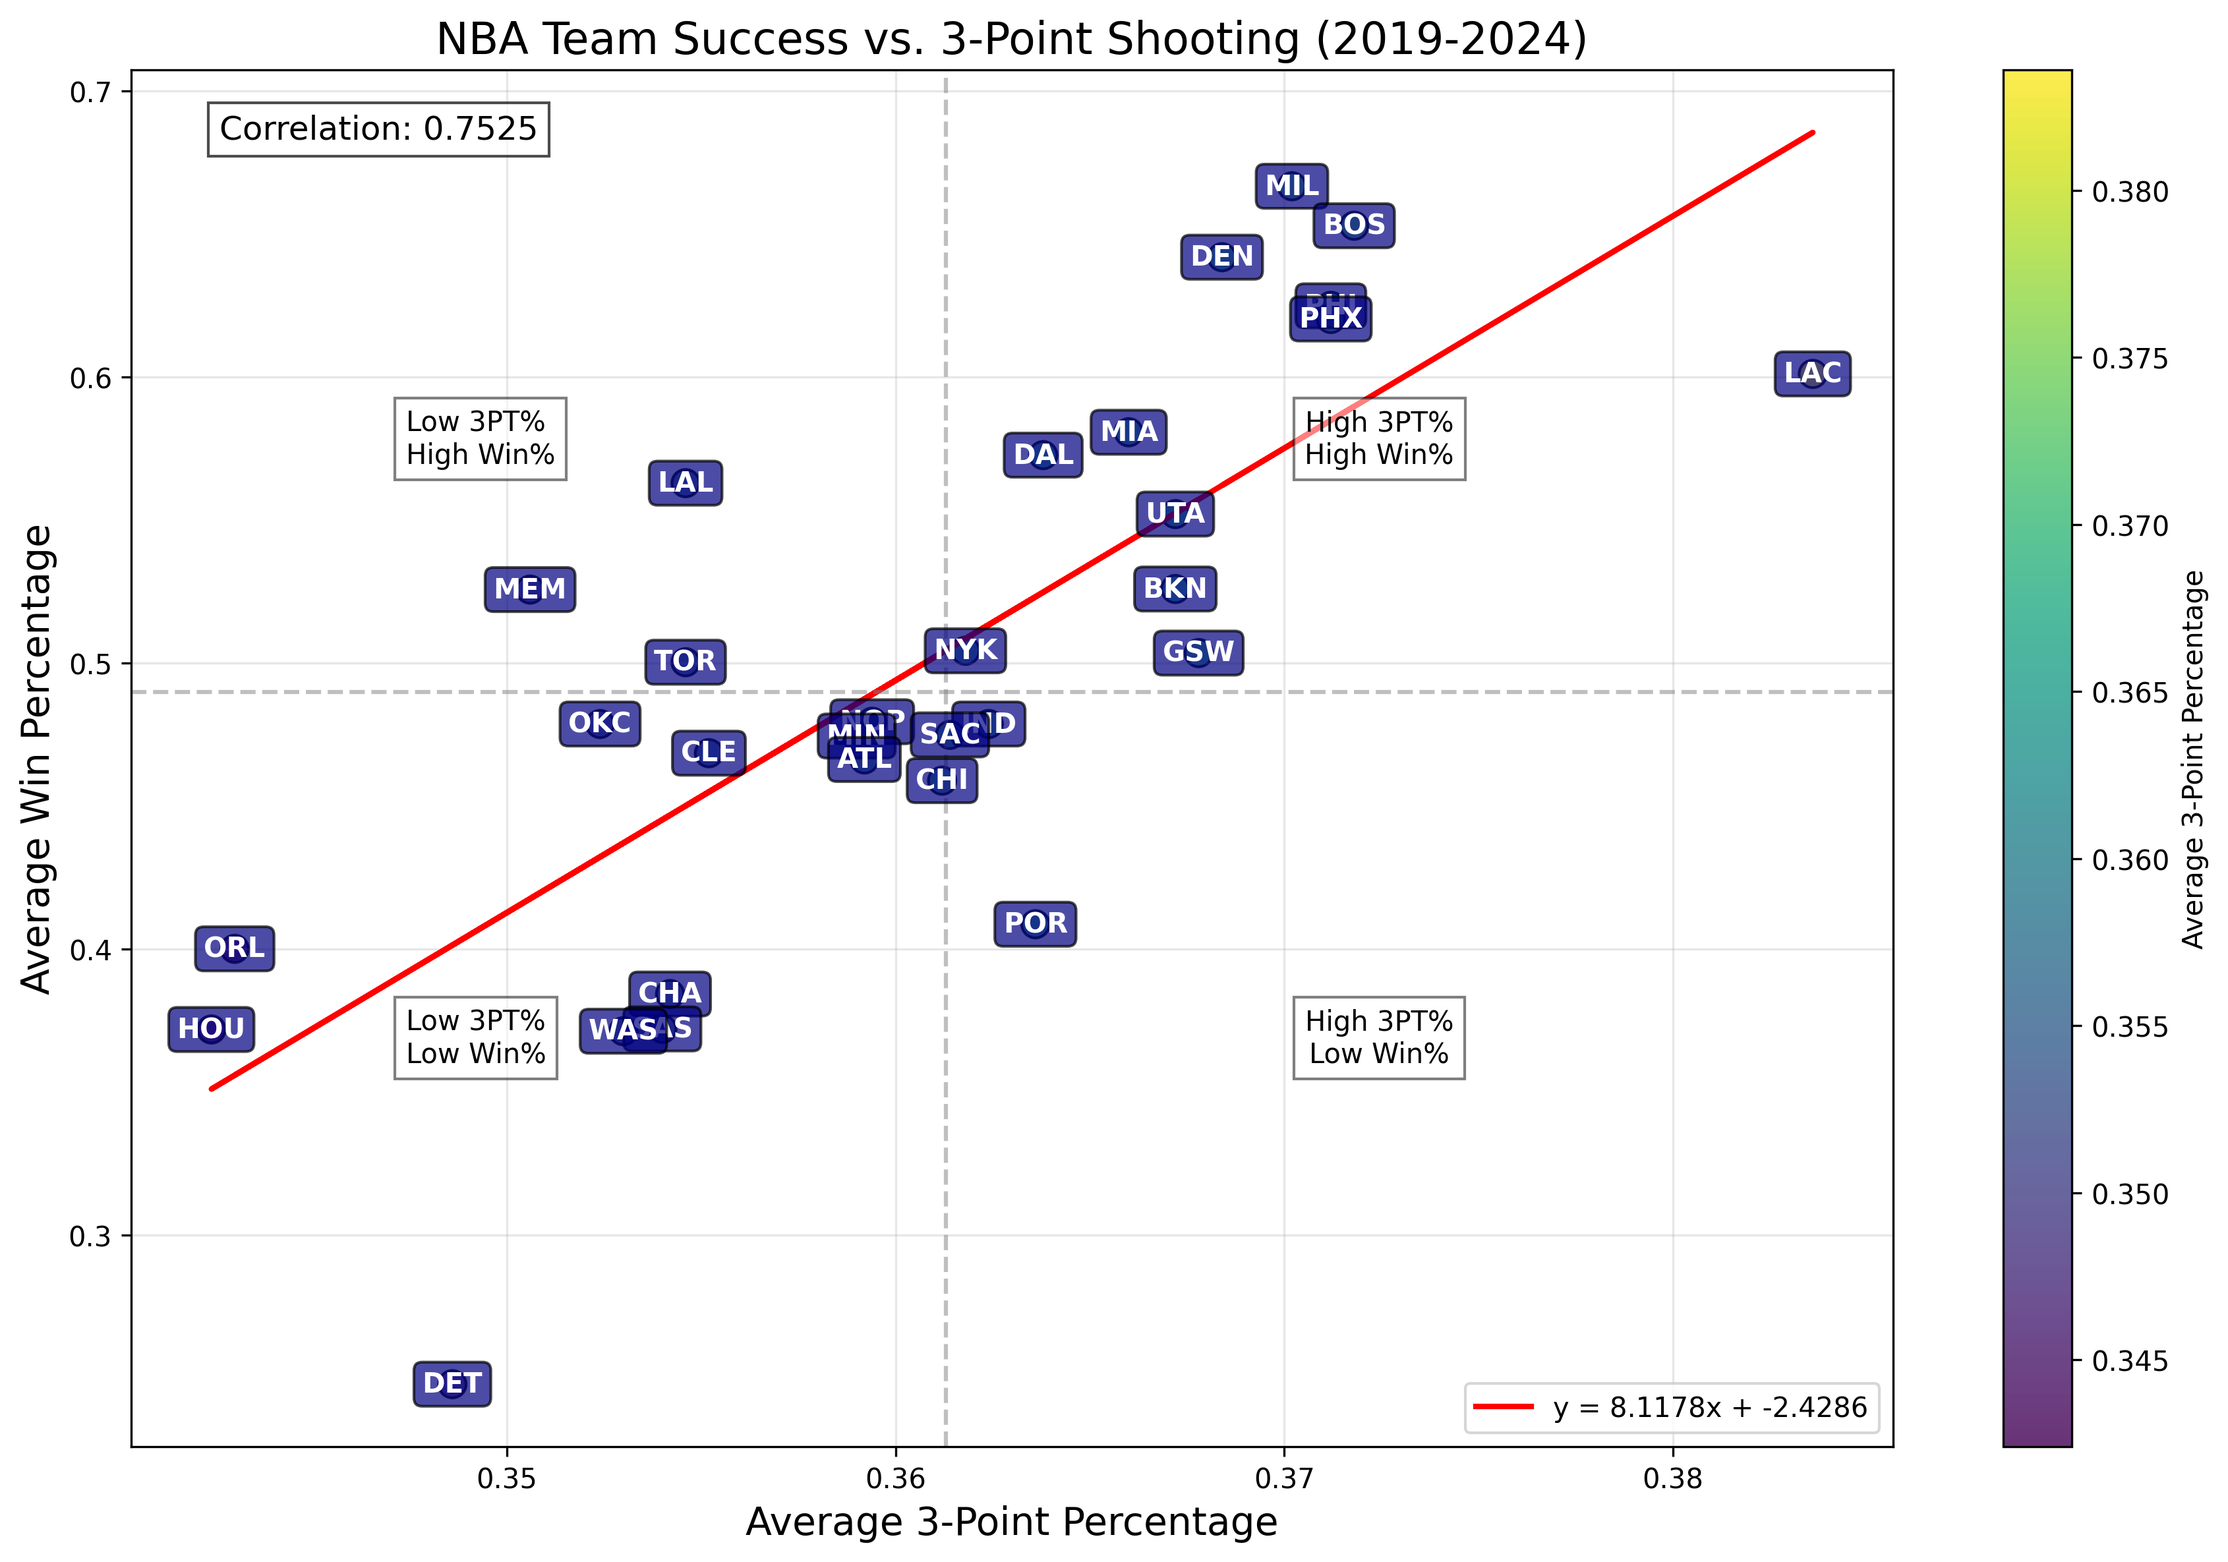
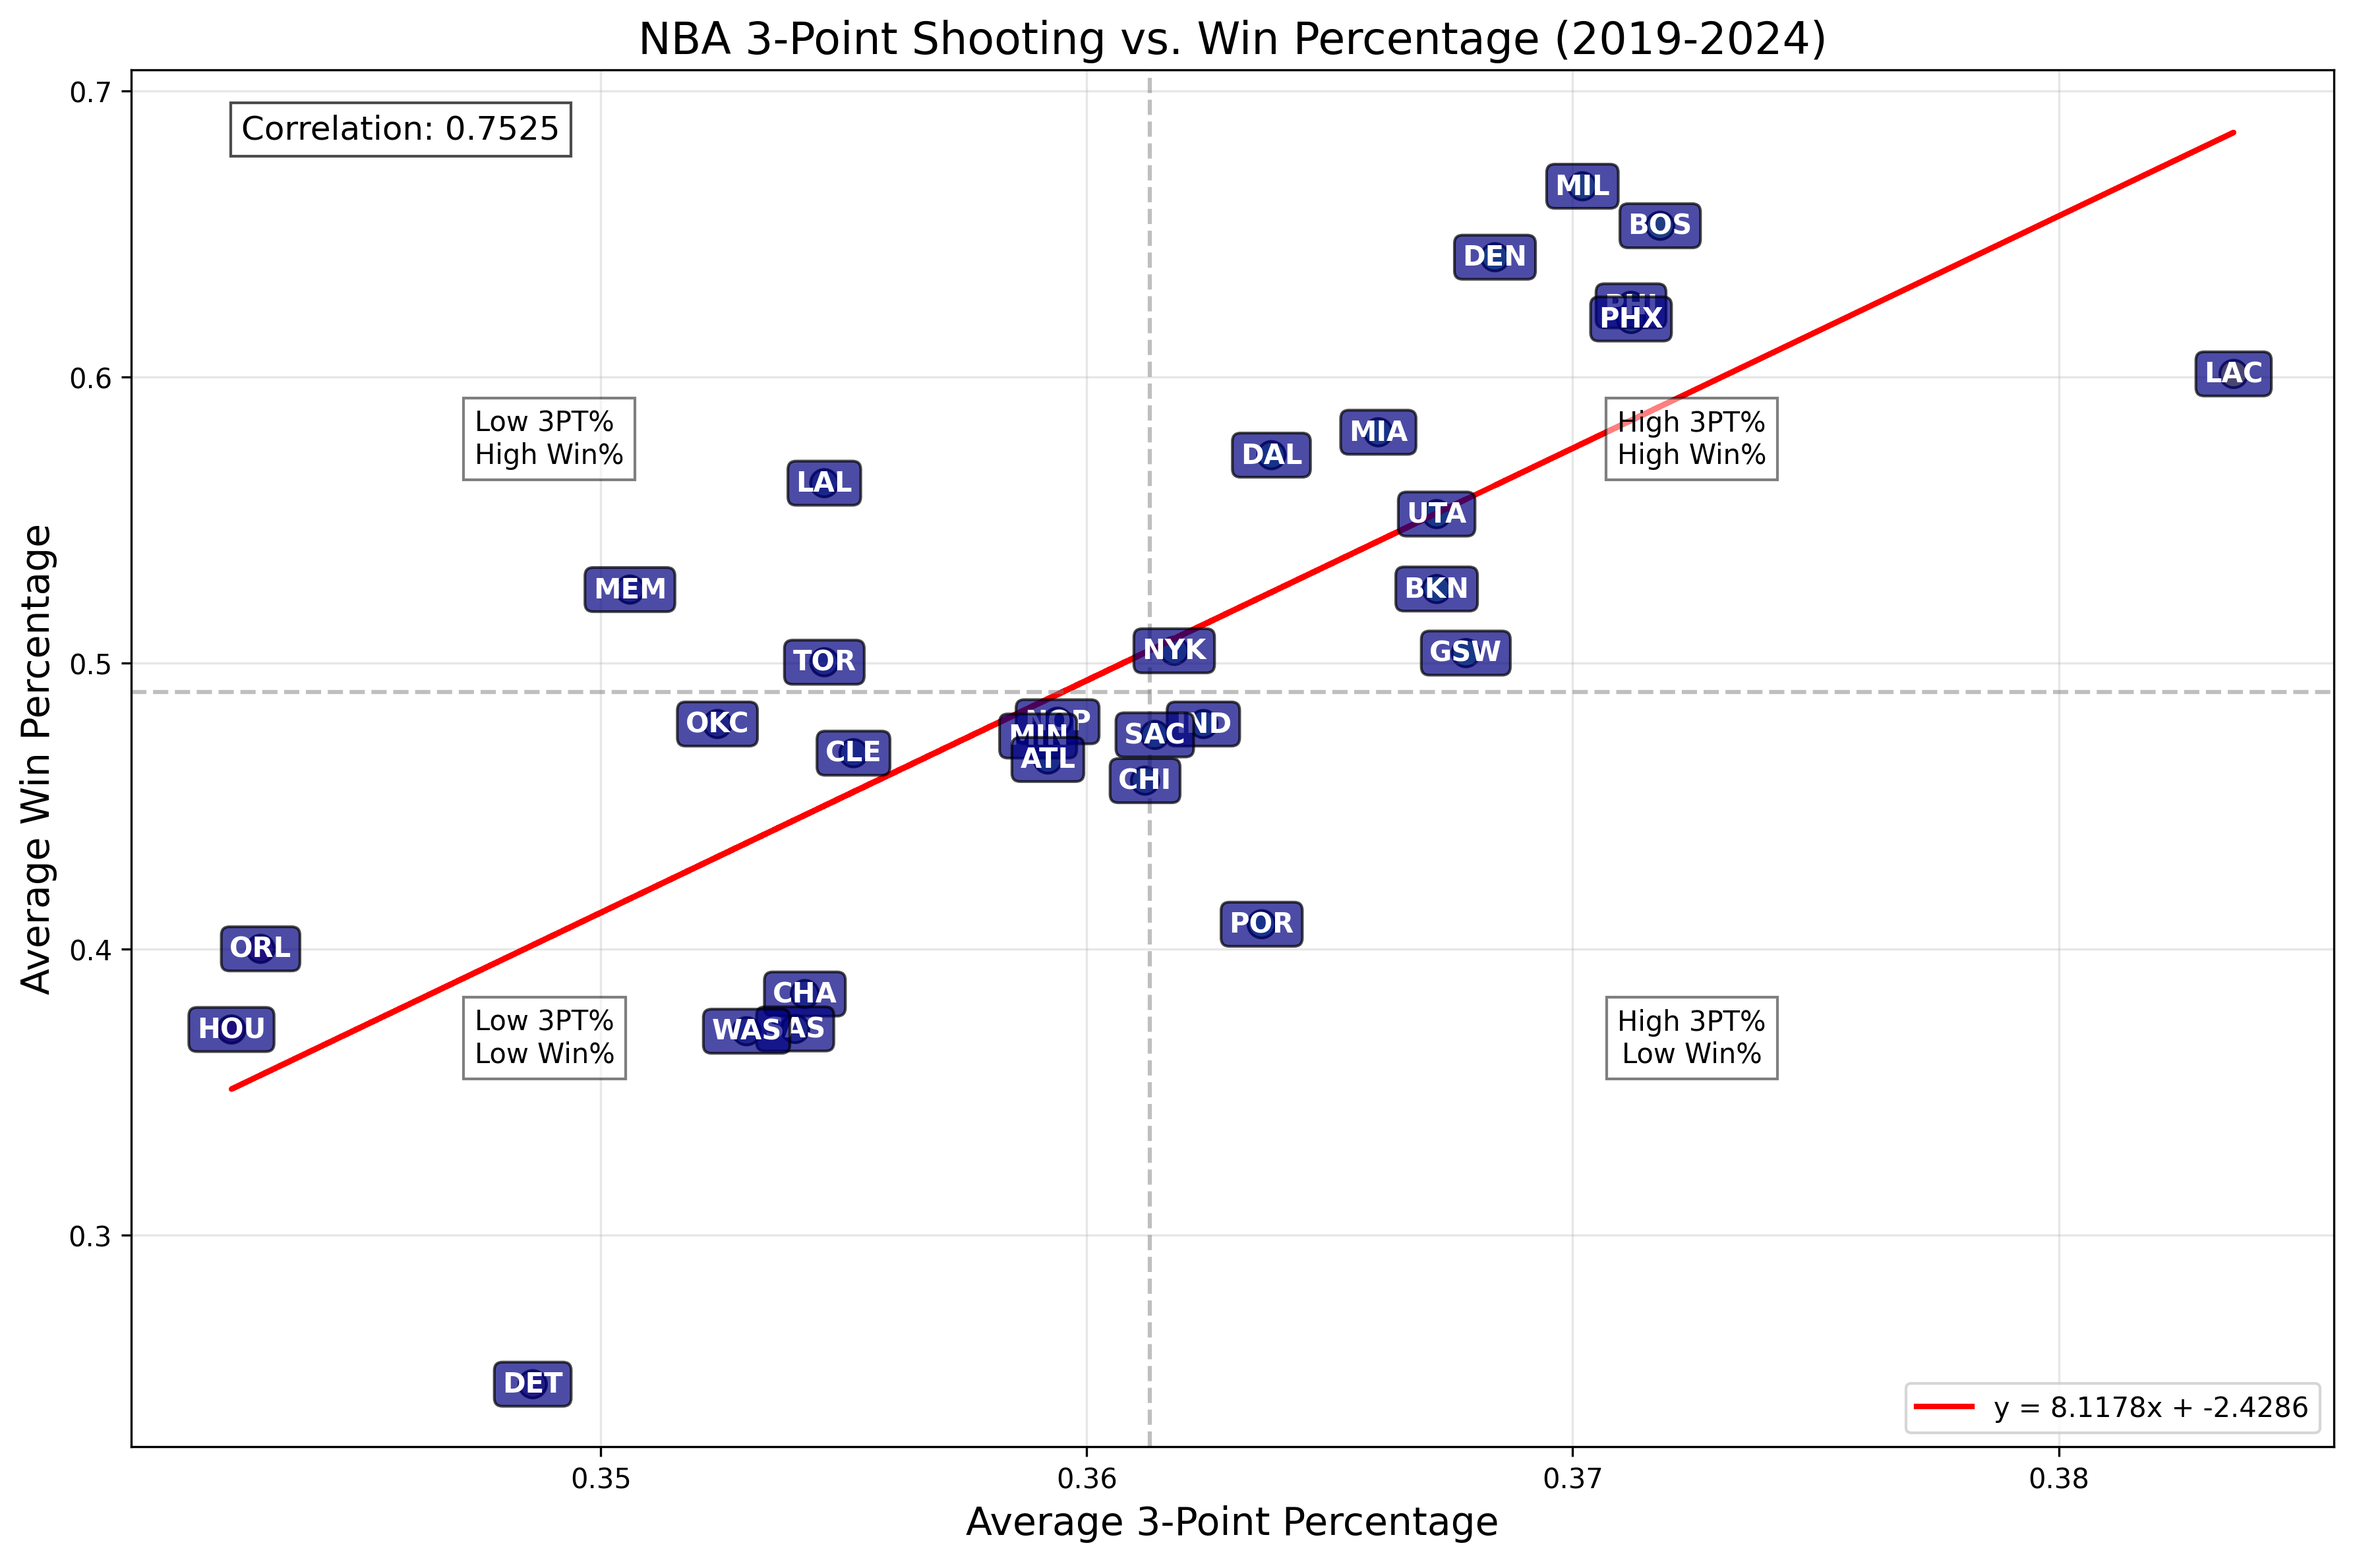
done with everything?

diff --git a/sid/calc.py b/sid/calc.py
@@ -5,14 +5,8 @@ import pandas as pd
 import os
 
 def calculate_and_visualize_3pt_win_correlation(db_name="nba-stats.db"):
-    """
-    Calculate average 3PT% and win% for each team over 5 seasons,
-    visualize their correlation, and write the data to a file.
-    """
-    # Connect to the database
     conn = sqlite3.connect(db_name)
-    
-    # SQL query to join tables and calculate averages
+
     query = """
     SELECT 
         t.team_id,
@@ -32,14 +26,11 @@ def calculate_and_visualize_3pt_win_correlation(db_name="nba-stats.db"):
         avg_win_pct DESC
     """
     
-    # Execute query and load results into DataFrame
     df = pd.read_sql_query(query, conn)
-    
-    # Calculate correlation coefficient
     correlation = np.corrcoef(df['avg_3pt_pct'], df['avg_win_pct'])[0, 1]
     
-    # Create a text file with the results
-    with open('3pt_win_correlation.txt', 'w') as f:
+    # Write out the calculated data to a file as text
+    with open('out-3pt.txt', 'w') as f:
         f.write("NBA 3-Point Shooting and Win Percentage Analysis\n")
         f.write(f"Correlation between 3PT% and Win%: {correlation:.4f}\n\n")
         f.write("Team Statistics (Ranked by Win Percentage):\n")
@@ -63,15 +54,14 @@ def calculate_and_visualize_3pt_win_correlation(db_name="nba-stats.db"):
     
     plt.figure(figsize=(12, 8))
     
-    # Create scatter plot
     scatter = plt.scatter(
         df['avg_3pt_pct'], 
         df['avg_win_pct'],
-        s=100,  # Point size
-        c=df['avg_3pt_pct'],  # Color based on 3PT%
-        cmap='viridis',  # Color map
-        alpha=0.8,  # Transparency
-        edgecolors='black'  # Outline color
+        s=100, 
+        c=df['avg_3pt_pct'],
+        cmap='viridis', 
+        alpha=0.8,
+        edgecolors='black'
     )
     
     # Add regression line
@@ -102,12 +92,9 @@ def calculate_and_visualize_3pt_win_correlation(db_name="nba-stats.db"):
         bbox=dict(facecolor='white', alpha=0.7)
     )
     
-    # Add colorbar
-    cbar = plt.colorbar(scatter)
-    cbar.set_label('Average 3-Point Percentage')
     
     # Add details and styling
-    plt.title('NBA Team Success vs. 3-Point Shooting (2019-2024)', fontsize=16)
+    plt.title('NBA 3-Point Shooting vs. Win Percentage (2019-2024)', fontsize=16)
     plt.xlabel('Average 3-Point Percentage', fontsize=14)
     plt.ylabel('Average Win Percentage', fontsize=14)
     plt.grid(True, alpha=0.3)
@@ -120,7 +107,7 @@ def calculate_and_visualize_3pt_win_correlation(db_name="nba-stats.db"):
     plt.axvline(x=median_3pt, color='gray', linestyle='--', alpha=0.5)
     plt.axhline(y=median_win, color='gray', linestyle='--', alpha=0.5)
     
-    # Add quadrant labels
+    # Used AI to help me divide the graph into quadrants and annotate them
     plt.text(df['avg_3pt_pct'].min() + 0.005, median_win + (df['avg_win_pct'].max() - median_win)/2, 
              "Low 3PT%\nHigh Win%", ha='left', va='center', fontsize=10,
              bbox=dict(facecolor='white', alpha=0.5))
@@ -146,14 +133,8 @@ def calculate_and_visualize_3pt_win_correlation(db_name="nba-stats.db"):
 
 
 def calculate_and_visualize_defense_win_correlation(db_name="nba-stats.db"):
-    """
-    Calculate average defensive stats and win% for each team over 5 seasons,
-    visualize their correlation, and write the data to a file.
-    """
-    # Connect to the database
+
     conn = sqlite3.connect(db_name)
-    
-    # SQL query to join tables and calculate averages
     query = """
     SELECT 
         t.team_id,
@@ -176,7 +157,6 @@ def calculate_and_visualize_defense_win_correlation(db_name="nba-stats.db"):
         avg_win_pct DESC
     """
     
-    # Execute query and load results into DataFrame
     df = pd.read_sql_query(query, conn)
     
     # Calculate a composite defensive rating
@@ -188,10 +168,7 @@ def calculate_and_visualize_defense_win_correlation(db_name="nba-stats.db"):
         0.25 * df['avg_fouls_per_game']
     )
     
-    # Calculate correlation coefficient between defensive rating and win percentage
     correlation = np.corrcoef(df['defensive_rating'], df['avg_win_pct'])[0, 1]
-    
-    # Calculate correlations for individual defensive components
     correlations = {
         'Defensive Rebounds': np.corrcoef(df['avg_def_reb_per_game'], df['avg_win_pct'])[0, 1],
         'Steals': np.corrcoef(df['avg_steals_per_game'], df['avg_win_pct'])[0, 1],
@@ -200,10 +177,9 @@ def calculate_and_visualize_defense_win_correlation(db_name="nba-stats.db"):
         'Composite Rating': correlation
     }
     
-    # Create a text file with the results
-    with open('defense_win_correlation.txt', 'w') as f:
+    # Write out the calculated data to a file as text
+    with open('out-defense.txt', 'w') as f:
         f.write("NBA Defensive Statistics and Win Percentage Analysis\n")
-        f.write("=================================================\n\n")
         
         # Write correlation statistics
         f.write("Correlation with Win Percentage:\n")
@@ -213,7 +189,6 @@ def calculate_and_visualize_defense_win_correlation(db_name="nba-stats.db"):
         
         # Write team-by-team statistics
         f.write("Team Statistics (Ranked by Win Percentage):\n")
-        f.write("------------------------------------------\n")
         f.write(f"{'Team':<25} {'Abbr':<5} {'Def Rating':<10} {'Reb/G':<8} {'Stl/G':<8} {'Blk/G':<8} {'Win%':<8}\n")
         f.write("-" * 75 + "\n")
         
@@ -225,10 +200,6 @@ def calculate_and_visualize_defense_win_correlation(db_name="nba-stats.db"):
             f.write(f"{row['avg_blocks_per_game']:.2f}    ")
             f.write(f"{row['avg_win_pct']:.4f}\n")
         
-        # Calculate and write regression equation
-        slope, intercept = np.polyfit(df['defensive_rating'], df['avg_win_pct'], 1)
-        f.write(f"\nRegression Equation: Win% = {slope:.4f} × Defensive Rating + {intercept:.4f}\n")
-        
         # Add interpretation
         if correlation > 0.7:
             f.write("\nInterpretation: There is a strong positive correlation between ")
@@ -239,32 +210,23 @@ def calculate_and_visualize_defense_win_correlation(db_name="nba-stats.db"):
         else:
             f.write("\nInterpretation: There is a weak correlation between ")
             f.write("defensive rating and win percentage.\n")
-        
-        # Add explanation of defensive rating formula
-        f.write("\nDefensive Rating Formula:\n")
-        f.write("(2.0 × Blocks/Game + 1.5 × Steals/Game + 0.5 × Defensive Rebounds/Game - 0.25 × Fouls/Game)\n")
     
-    # Create visualization
     plt.figure(figsize=(12, 8))
-    
-    # Create scatter plot
     scatter = plt.scatter(
         df['defensive_rating'], 
         df['avg_win_pct'],
-        s=100,  # Point size
-        c=df['defensive_rating'],  # Color based on defensive rating
-        cmap='coolwarm',  # Color map
-        alpha=0.8,  # Transparency
-        edgecolors='black'  # Outline color
+        s=100, 
+        c=df['defensive_rating'], 
+        cmap='coolwarm',  
+        alpha=0.8, 
+        edgecolors='black' 
     )
     
-    # Add regression line
     x = df['defensive_rating']
     y = df['avg_win_pct']
     m, b = np.polyfit(x, y, 1)
     plt.plot(x, m*x + b, 'g-', linewidth=2, label=f'y = {m:.4f}x + {b:.4f}')
     
-    # Add team labels
     for i, row in df.iterrows():
         plt.annotate(
             row['team_abbreviation'],
@@ -277,7 +239,6 @@ def calculate_and_visualize_defense_win_correlation(db_name="nba-stats.db"):
             bbox=dict(boxstyle="round,pad=0.3", fc='darkgreen', alpha=0.7)
         )
     
-    # Add correlation coefficient text
     plt.text(
         0.05, 0.95, 
         f"Correlation: {correlation:.4f}", 
@@ -286,25 +247,17 @@ def calculate_and_visualize_defense_win_correlation(db_name="nba-stats.db"):
         bbox=dict(facecolor='white', alpha=0.7)
     )
     
-    # Add colorbar
-    cbar = plt.colorbar(scatter)
-    cbar.set_label('Defensive Rating')
-    
-    # Add details and styling
-    plt.title('NBA Team Success vs. Defensive Rating (2019-2024)', fontsize=16)
+    plt.title('NBA Defensive Rating vs. Win Percentage (2019-2024)', fontsize=16)
     plt.xlabel('Defensive Rating', fontsize=14)
     plt.ylabel('Average Win Percentage', fontsize=14)
     plt.grid(True, alpha=0.3)
     plt.legend()
     
-    # Add quadrant lines at median values
     median_def = df['defensive_rating'].median()
     median_win = df['avg_win_pct'].median()
     
     plt.axvline(x=median_def, color='gray', linestyle='--', alpha=0.5)
     plt.axhline(y=median_win, color='gray', linestyle='--', alpha=0.5)
-    
-    # Add quadrant labels
     plt.text(df['defensive_rating'].min() + 0.1, median_win + (df['avg_win_pct'].max() - median_win)/2, 
              "Low Defense\nHigh Win%", ha='left', va='center', fontsize=10,
              bbox=dict(facecolor='white', alpha=0.5))
@@ -321,7 +274,6 @@ def calculate_and_visualize_defense_win_correlation(db_name="nba-stats.db"):
              "High Defense\nLow Win%", ha='center', va='center', fontsize=10,
              bbox=dict(facecolor='white', alpha=0.5))
     
-    # Save and display the figure
     plt.tight_layout()
     plt.savefig('defense_win_correlation.png', dpi=300, bbox_inches='tight')
     
@@ -333,10 +285,7 @@ def calculate_and_visualize_team_efficiency(db_name="nba-stats.db"):
     Calculate average player efficiency for each team and create a visualization
     comparing teams against each other.
     """
-    # Connect to the database
     conn = sqlite3.connect(db_name)
-    
-    # SQL query to get player efficiency data
     player_query = """
     SELECT 
         t.team_id,
@@ -355,15 +304,12 @@ def calculate_and_visualize_team_efficiency(db_name="nba-stats.db"):
     # Execute query and load results into DataFrame
     player_df = pd.read_sql_query(player_query, conn)
     
-    # Calculate average efficiency for each team (top 5 players)
     team_efficiencies = []
-    
     for team_id in player_df['team_id'].unique():
         team_players = player_df[player_df['team_id'] == team_id].sort_values('efficiency', ascending=False)
         team_name = team_players.iloc[0]['team_name']
         team_abbr = team_players.iloc[0]['team_abbreviation']
         
-        # Get top 5 players (or all if fewer than 5)
         top_players = team_players.head(5)
         avg_efficiency = top_players['efficiency'].mean()
         
@@ -376,17 +322,11 @@ def calculate_and_visualize_team_efficiency(db_name="nba-stats.db"):
             'players': top_players[['player_name', 'efficiency']].to_dict('records')
         })
     
-    # Create DataFrame from team efficiencies
     efficiency_df = pd.DataFrame(team_efficiencies)
     
-    # Write results to a text file
-    with open('team_efficiency_comparison.txt', 'w') as f:
-        f.write("NBA Team Player Efficiency Analysis\n")
-        f.write("==================================\n\n")
-        
-        # Write team-by-team statistics
-        f.write("Team Statistics (Ranked by Efficiency):\n")
-        f.write("--------------------------------------\n")
+    # Write out the calculated data to a file as text
+    with open('out-eff.txt', 'w') as f:
+        f.write("NBA Team Player Efficiency Statst\n")
         
         # Sort by efficiency
         sorted_teams = efficiency_df.sort_values('avg_efficiency', ascending=False)
